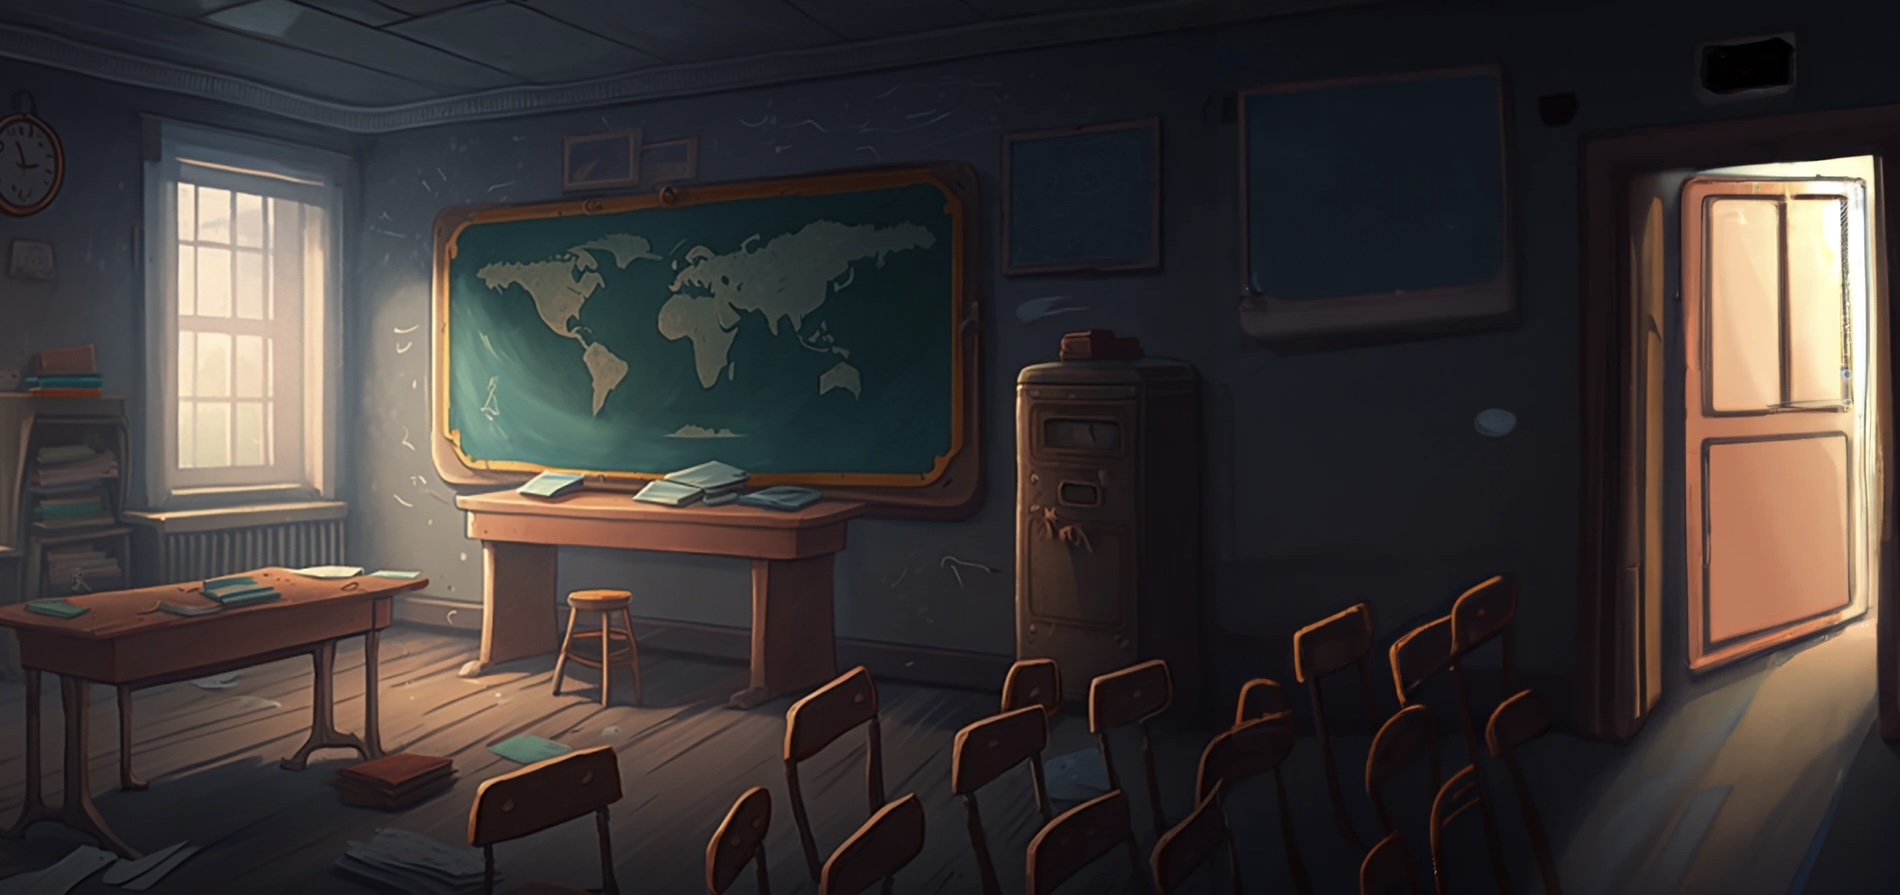
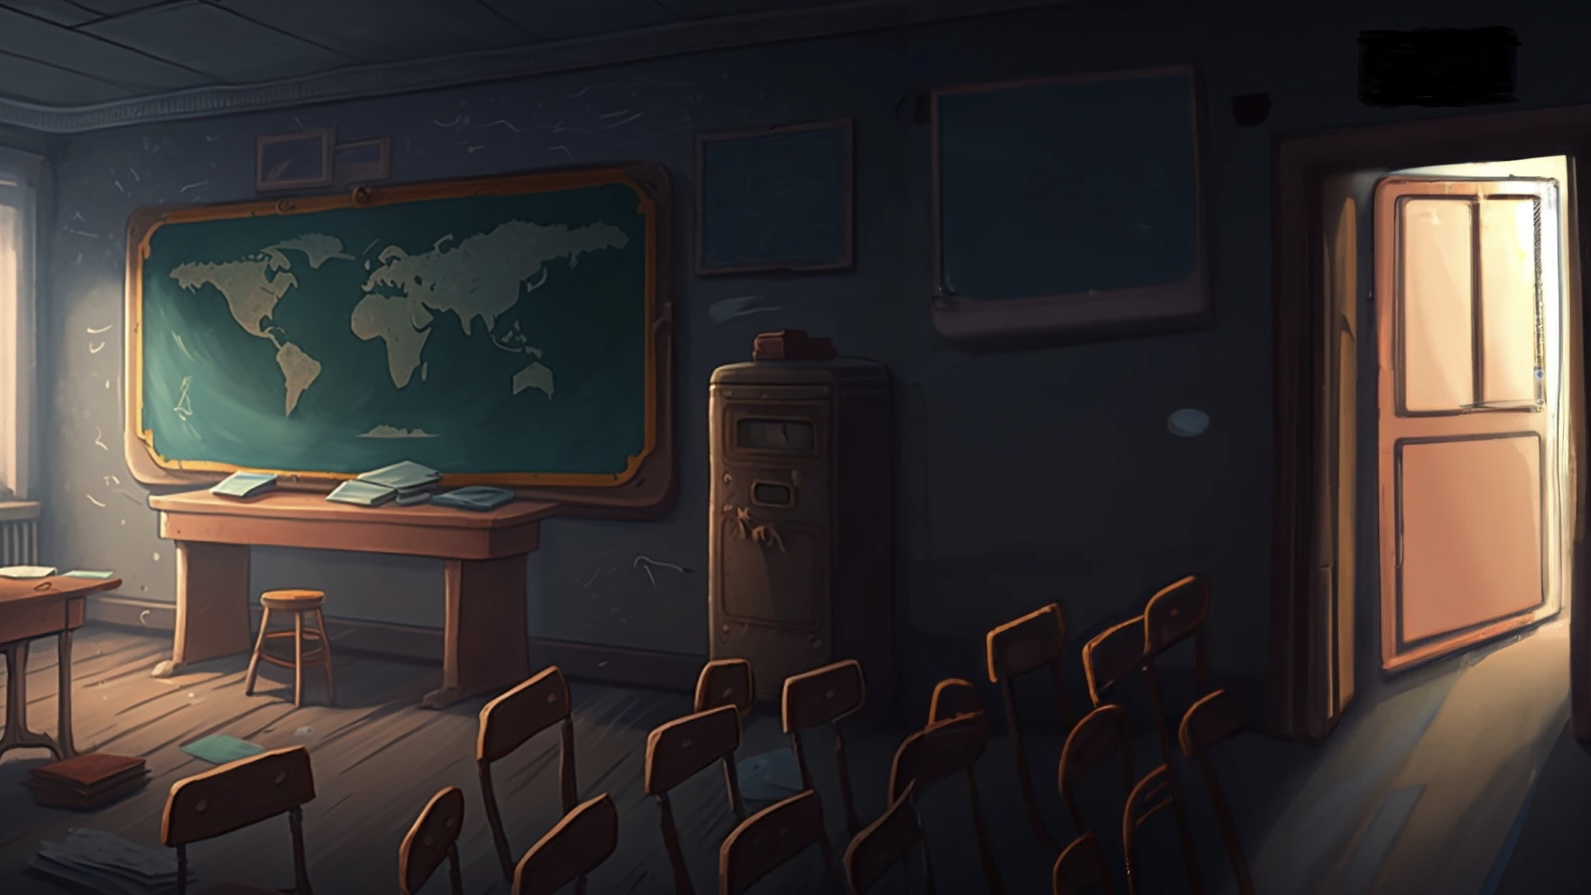
added the doors for the hallway

diff --git a/src/main/resources/css/stylesheet.css b/src/main/resources/css/stylesheet.css
@@ -1,0 +1,6 @@
+.roomLabel {
+    -fx-font-size: 20px;
+    -fx-font-family: "chalkboard";
+    -fx-background-color: white;
+    -fx-text-fill: black;
+}

diff --git a/src/main/java/nz/ac/auckland/se206/controllers/HallwayController.java b/src/main/java/nz/ac/auckland/se206/controllers/HallwayController.java
@@ -1,14 +1,22 @@
 package nz.ac.auckland.se206.controllers;
 
+import java.io.IOException;
 import javafx.application.Platform;
 import javafx.concurrent.Task;
 import javafx.fxml.FXML;
+import javafx.scene.Scene;
 import javafx.scene.control.Label;
+import javafx.scene.input.MouseEvent;
+import javafx.scene.shape.Rectangle;
 import nz.ac.auckland.se206.GameState;
+import nz.ac.auckland.se206.SceneManager;
+import nz.ac.auckland.se206.SceneManager.AppUi;
 
 public class HallwayController {
 
   @FXML private Label timerLabel;
+  @FXML private Rectangle classroomDoor;
+  @FXML private Rectangle gymDoor;
   private Timer timer;
 
   /** Initializes the room view, it is called when the room loads. */
@@ -16,6 +24,32 @@ public class HallwayController {
     // Initialization code goes here
     timer = GameState.timer;
     updateTimer();
+  }
+
+  @FXML
+  public void clickClassroomDoor(MouseEvent event) throws IOException {
+    System.out.println("door clicked");
+
+    // Switching to hallway scene
+    Rectangle rectangle = (Rectangle) event.getSource();
+    Scene sceneRectangleIsIn = rectangle.getScene();
+    sceneRectangleIsIn.setRoot(SceneManager.getUiRoot(AppUi.ROOM));
+
+    // Resizing the window so the larger scene fits
+    sceneRectangleIsIn.getWindow().sizeToScene();
+  }
+
+  @FXML
+  public void clickGymDoor(MouseEvent event) throws IOException {
+    System.out.println("door clicked");
+
+    // Switching to hallway scene
+    Rectangle rectangle = (Rectangle) event.getSource();
+    Scene sceneRectangleIsIn = rectangle.getScene();
+    sceneRectangleIsIn.setRoot(SceneManager.getUiRoot(AppUi.GYMNASIUM));
+
+    // Resizing the window so the larger scene fits
+    sceneRectangleIsIn.getWindow().sizeToScene();
   }
 
   private void updateTimer() {
